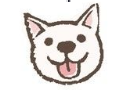
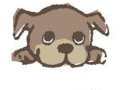
정호 : 수정

diff --git a/WebContent/JS/pet.js b/WebContent/JS/pet.js
@@ -1,40 +1,79 @@
 /**
- *  반려견 정보 추가 페이지
+ * 반려견 정보 추가 페이지
  */
 
-function chkSubmit(){
-	frm = document.forms["frm"];
+// 펫 이미지
+$('.pet_image_list').click(function() {
+
+//	if ($('.pet_image_list').is(":checked")) {
+//		var pet = parseInt(this.value) + 4;
+//		$('#pet_img' + this.value).attr('src', 'img/K-00' + pet + '.png');
+//	} else if ($('.pet_image_list').is(":unchecked")){
+//		$('#pet_img' + this.value).attr('src', 'img/K-00' + this.value + '.png');
+//	}
 	
+	if(this.value == 1) {
+		$('#pet_img' + 1).attr('src', 'img/K-00' + 5 + '.png');
+		$('#pet_img' + 2).attr('src', 'img/K-00' + 2 + '.png');
+		$('#pet_img' + 3).attr('src', 'img/K-00' + 3 + '.png');
+		$('#pet_img' + 4).attr('src', 'img/K-00' + 4 + '.png');
+	}
+	if(this.value == 2) {
+		$('#pet_img' + 1).attr('src', 'img/K-00' + 1 + '.png');
+		$('#pet_img' + 2).attr('src', 'img/K-00' + 6 + '.png');
+		$('#pet_img' + 3).attr('src', 'img/K-00' + 3 + '.png');
+		$('#pet_img' + 4).attr('src', 'img/K-00' + 4 + '.png');
+	}
+	if(this.value == 3) {
+		$('#pet_img' + 1).attr('src', 'img/K-00' + 1 + '.png');
+		$('#pet_img' + 2).attr('src', 'img/K-00' + 2 + '.png');
+		$('#pet_img' + 3).attr('src', 'img/K-00' + 7 + '.png');
+		$('#pet_img' + 4).attr('src', 'img/K-00' + 4 + '.png');
+	}
+	if(this.value == 4) {
+		$('#pet_img' + 1).attr('src', 'img/K-00' + 1 + '.png');
+		$('#pet_img' + 2).attr('src', 'img/K-00' + 2 + '.png');
+		$('#pet_img' + 3).attr('src', 'img/K-00' + 3 + '.png');
+		$('#pet_img' + 4).attr('src', 'img/K-00' + 8 + '.png');
+	}
+	
+})
+
+function chkSubmit() {
+	frm = document.forms["frm"];
+
 	var p_name = frm["p_name"].value.trim();
 	var p_age = frm["p_age"].value.trim();
 	var p_weight = frm["p_weight"].value.trim();
-	
-	if(p_name == ""){
+
+	if (p_name == "") {
 		alert("강아지 이름을 입력해주세요");
 		frm["p_name"].focus();
 		return false;
 	}
-	
-	if(p_age == ""){
+
+	if (p_age == "") {
 		alert("강아지 나이를 입력해주세요");
 		frm["p_age"].focus();
 		return false;
 	}
-	
-	if(p_weight == ""){
+
+	if (p_weight == "") {
 		alert("강아지 무게를 입력해주세요");
 		frm["p_weight"].focus();
 		return false;
 	}
-	
+
 	return true;
 } // end chkSubmit()
 
-function petchk(url){
-	newPage = window.open(url,'petinfo','width=500,height=800,left=650,location=no,status=no,scrollbars=no');
+function petchk(url) {
+	newPage = window
+			.open(url, 'petinfo',
+					'width=500,height=800,left=650,location=no,status=no,scrollbars=no');
 }
 
 function petopen() {
-	myWindow = window.open("pet_update.jsp", "팝업창", "width = 500, height = 615, left = 650, top = 10")
+	myWindow = window.open("pet_update.jsp", "팝업창",
+			"width = 500, height = 615, left = 650, top = 10")
 }
-

diff --git a/WebContent/CSS/pet_update.css b/WebContent/CSS/pet_update.css
@@ -51,6 +51,12 @@ header input:hover {
 	cursor: pointer;
 }
 
+/* 컨텐츠 A */
+.conA .container {
+	margin-top : 20px;
+	text-align: center;
+}
+
 /* 컨텐츠 B */
 #content-header h3 {
 	font-size: 24px;
@@ -76,58 +82,31 @@ header input:hover {
 	font-weight: bold;
 }
 
-#contact-form input[type='text'], #contact-form input[type='email'] { 
+#contact-form input[type='text']{ 
+	margin-top: 10px;
 	border:#ccc 1px solid;
 	border-radius: 5px;
 	height: 25px;
 	width: 65%;
 }
 
-#contact-form input[type='submit'] { 
-	padding:12px18px;
-	color: #fff;
-	background: #FEC034;
-	border: 0;
-	border-radius: 0;
-	float: middle;
-	display: block;
-}
-
-#contact-form input[type='submit']:hover {
-	background: #fa6e3e;
-	cursor: pointer;
-}
-
-#contact-form .content-footer p { 
-	font-style:italic;
+.btn_list {
 	text-align: center;
-	color: #666;
-	font-size: 80%;
+}
+.btn {
+	text-align:center;
+	border: 1px solid var(--main-color);
+	padding:10px;
+	font-size: 14px;
+	background-color: var(--main-color);
+	color: white;
+	border-radius: 5px;
 }
 
-#contact-form input[type='button'] {
-	border : 4px solid #FFFFFF;
-	background :  #FFFFFF;
-	margin-left : 5px;
-	margin-top: 10px;
-	margin-bottom : 10px;	
+.btn :hover {
+	cursor: pointer;
+	color: var(--text-color);	
 }
-
-
-#contact-form input[type='button']:hover {
-	text-decoration:underline
-}
-
-#contact-form input[type='button']:active {
-	border : 1px solid #FFFFFF;
-	outline-color: #FFFFFF;
-}
-
-#contact-form input[type='button']:focus {
-	outline-color: #FFFFFF;
-	border : 1px solid #FFFFFF;
-}
-
 
 /* 푸터 */
 footer{

diff --git a/WebContent/CSS/pet.css b/WebContent/CSS/pet.css
@@ -1,5 +1,18 @@
 @charset "UTF-8";
 
+* {
+	margin: 0;
+	padding: 0;
+}
+
+/* 기본 색상 */
+:root {
+	--main-color:#FEC034;
+	--text-color: #555555;
+	--sub-text-color: #999999;
+	--footer-color:#333333;
+}
+
 table {
 	width: 100%
 }
@@ -30,6 +43,44 @@ table,th,td{
 /* 컨텐츠 C */
 .conC .container {
 	padding-top: 60px;
+}
+
+.conC h3 {
+	text-align: center;
+	font-size: 30px;
+	color: var(--text-color);
+}
+
+.conC form {
+	margin-top: 30px;
+	text-align: center;
+}
+.conC p {
+	color: var(--text-color);
+	font-size: 24px;
+	padding: 7px;
+}
+
+.conC .text {
+	border : 1px solid #ced4da;
+	font-size: 24px;
+	width: 30%;
+}
+
+.conC .btn {
+	margin-top: 15px;
+	margin-bottom: 40px;
+	border-radius: 5px;
+	border: 1px solid var(--main-color);
+	padding:10px;
+	font-size: 30px;
+	background-color: var(--main-color);
+	color: white;
+}
+
+.conC .btn:hover {
+	cursor: pointer;
+	color: var(--text-color);	
 }
 
 th,td:hover{
